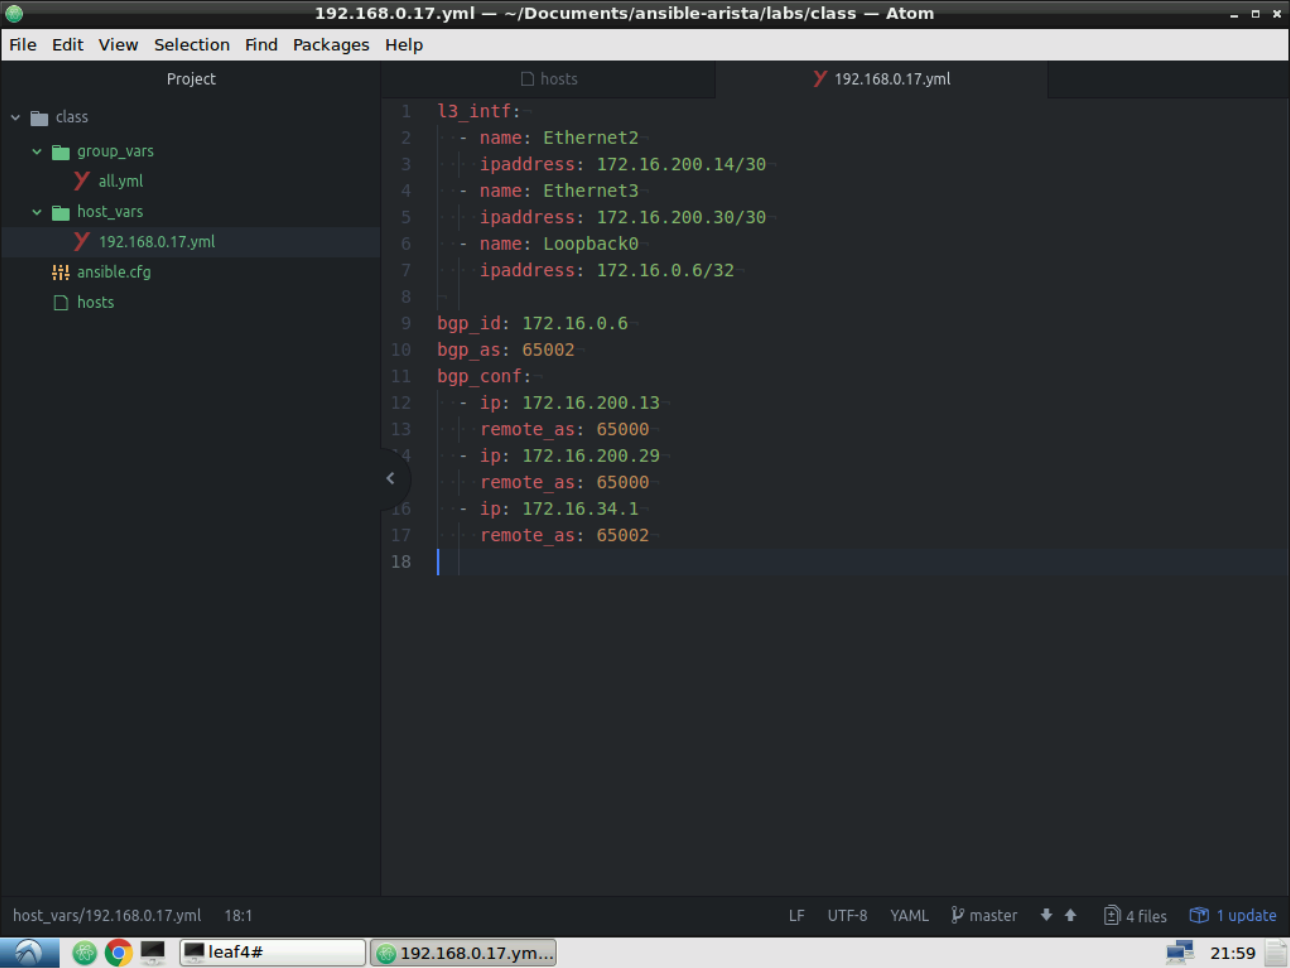
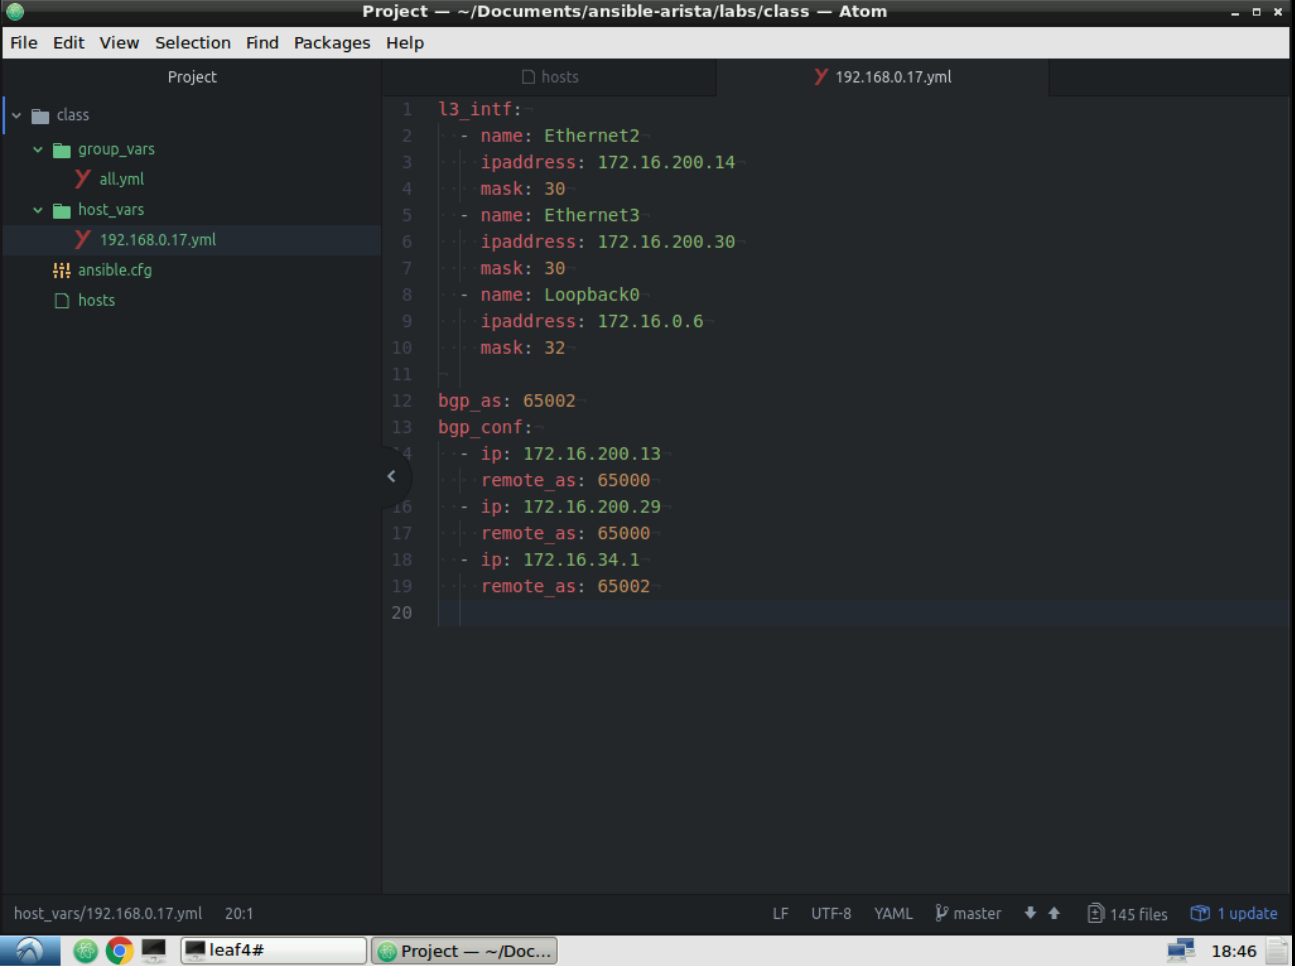
Cleaned up formatting and scripts

diff --git a/labguides/source/eos_l3-2.rst b/labguides/source/eos_l3-2.rst
@@ -5,7 +5,7 @@ Exercise 7 - EOS L3 Interfaces (Continued)
 
 |
 
-2. For this playbook, we will introduce the use of a Jinja2 template.  Jinja2 templates help reduce the amount of configurations that need to be typed ahead of time.  This is acheived by looping through a set of variables for the task.  Let's start by creating a new file with the following information, and save it as **l3-intf.j2**
+2. For this playbook, we will introduce the use of a Jinja2 template.  Jinja2 templates help reduce the amount of configurations that need to be typed ahead of time.  This is acheived by looping through a set of variables for the task.  Let's start by creating a new file with the following information, and save it as ``l3-intf.j2``
 
     .. code-block:: text
 
@@ -14,13 +14,13 @@ Exercise 7 - EOS L3 Interfaces (Continued)
         {% if 'Ethernet' in intf.name %}
            no switchport
         {% endif %}
-           ip address {{ intf.ipaddress }}
+           ip address {{ intf.ipaddress }}/{{ intf.mask }}
         {% endfor %}        
 
 |
 
 
-3. Create a new file with the following information, and save it as **add-l3-2.yml**
+3. Create a new file with the following information, and save it as ``add-l3-2.yml``
 
     .. code-block:: yaml
 
@@ -36,7 +36,7 @@ Exercise 7 - EOS L3 Interfaces (Continued)
 
 |
 
-4. Before we run this playbook, in **Terminal** let's login to a switch to see the current IP addreses configured on leaf4. username: arista / password: arista
+4. Before we run this playbook, in **Terminal** let's login to a switch to see the current IP addreses configured on leaf4. username: ``arista`` password: ``arista``
 
     .. code-block:: text
 
@@ -70,4 +70,4 @@ Now all interfaces show up with the correct IP Address!
 
 |
 
-Section Complete!
+**Section Complete!**

diff --git a/labguides/source/eos_bgp.rst b/labguides/source/eos_bgp.rst
@@ -5,12 +5,17 @@ Exercise 8 - EOS BGP Configuration
 
 |
 
-2. First we will need to create a new Jinja2 template.  Add the following ad save it as **bgp.j2**
+2. First we will need to create a new Jinja2 template.  Add the following ad save it as ``bgp.j2``
 
     .. code-block:: text
 
         router bgp {{ bgp_as }}
-           router-id {{ bgp_id }}
+        {% for intf in l3_intf %}
+        {% if intf.name == 'Loopback0' %}
+           router-id {{ intf.ipaddress }}
+           network {{ intf.ipaddress }}/{{ intf.mask }}
+        {% endif %}
+        {% endfor %}
            maximum-paths 4 ecmp 4
         {% for neighbor in bgp_conf %}
            neighbor {{ neighbor.ip }} remote-as {{ neighbor.remote_as }}
@@ -20,10 +25,9 @@ Exercise 8 - EOS BGP Configuration
            neighbor {{ neighbor.ip }} maximum-routes 12000
         {% endif %}
         {% endfor %}
-           network {{ bgp_id }}/32
            network 172.16.116.0/24
 
-2. Create a new file with the following information, and save it as **add-bgp.yml**
+2. Create a new file with the following information, and save it as ``add-bgp.yml``
 
     .. code-block:: yaml
 
@@ -39,7 +43,7 @@ Exercise 8 - EOS BGP Configuration
 
 |
 
-3. Before we run this playbook, in **Terminal** let's login to see the BGP state configured on leaf4. username: arista / password: arista
+3. Before we run this playbook, in **Terminal** let's login to see the BGP state configured on leaf4. username: ``arista`` password: ``arista``
 
     .. code-block:: text
 
@@ -75,4 +79,4 @@ Exercise 8 - EOS BGP Configuration
 
 
 
-Section Complete!
+**Section Complete!**

diff --git a/labguides/source/setup_ansible.rst b/labguides/source/setup_ansible.rst
@@ -34,6 +34,7 @@ Exercise 1 - Ansible Setup
 
         # Turn off generation of .retry files:
         retry_files_enabled = False
+    
 
 |
 
@@ -57,28 +58,28 @@ Exercise 1 - Ansible Setup
 
 |
 
-<<<<<<< HEAD
-6. Create a *New File* with the following host specific variables for leaf4.  Save the file as **host_vars/192.168.0.17.yml**
-=======
-6. Create a *New File* withe the following host specific variables for leaf4.  Save the file as ``host_vars/192.168.0.17.yml``
->>>>>>> Updating formatting
+6. Create a *New File* with the following host specific variables for leaf4.  Save the file as ``host_vars/192.168.0.17.yml``
 
     .. code-block:: yaml
 
         l3_intf:
           - name: Ethernet2
-            ipaddress: 172.16.200.14/30
+            ipaddress: 172.16.200.14
+            mask: 30
           - name: Ethernet3
-            ipaddress: 172.16.200.30/30
+            ipaddress: 172.16.200.30
+            mask: 30
           - name: Loopback0
-            ipaddress: 172.16.0.6/32
+            ipaddress: 172.16.0.6
+            mask: 32
 
+        bgp_as: 65002
         bgp_conf:
-          - neighbor: 172.16.200.13
+          - ip: 172.16.200.13
             remote_as: 65000
-          - neighbor: 172.16.200.29
+          - ip: 172.16.200.29
             remote_as: 65000
-          - neighbor: 172.16.34.1
+          - ip: 172.16.34.1
             remote_as: 65002
 
 |
@@ -113,4 +114,4 @@ Exercise 1 - Ansible Setup
 
 |
 
-Section Complete! 
+**Section Complete!**

diff --git a/labguides/source/eos_vlans.rst b/labguides/source/eos_vlans.rst
@@ -5,7 +5,7 @@ Exercise 4 - EOS VLANs
 
 |
 
-2. Create a new file with the following information, and save it as **add-vlan.yml**
+2. Create a new file with the following information, and save it as ``add-vlan.yml``
 
     .. code-block:: yaml
 
@@ -22,11 +22,11 @@ Exercise 4 - EOS VLANs
               eos_vlan:
                 aggregate: "{{ eos_vlans }}"
 
-    This playbook calls the **eos_vlan** module twice.  The first task creates a single defined VLAN.  The second task creates a set of VLANs defined in **group_vars/all.yml**
+    This playbook calls the **eos_vlan** module twice.  The first task creates a single defined VLAN.  The second task creates a set of VLANs defined in ``group_vars/all.yml``
 
 |
 
-3. Before we run this playbook, in **Terminal** let's login to a switch to see the current state of VLANs. username: arista / password: arista
+3. Before we run this playbook, in **Terminal** let's login to a switch to see the current state of VLANs. username: ``arista`` password: ``arista``
 
     .. code-block:: text
 
@@ -58,4 +58,4 @@ Exercise 4 - EOS VLANs
 
 |
 
-Section Complete!
+**Section Complete!**

diff --git a/labguides/source/eos_facts.rst b/labguides/source/eos_facts.rst
@@ -5,7 +5,7 @@ Exercise 2 - EOS Facts
 
 |
 
-2. Create a new file with the following information, and save it as **get-facts.yml**
+2. Create a new file with the following information, and save it as ``get-facts.yml``
 
     .. code-block:: yaml
 
@@ -18,7 +18,7 @@ Exercise 2 - EOS Facts
        
 |
 
-3. Next go to your **Terminal** window, and make sure you are in the following directory. **~/Documents/ansible-arista/labs/class**
+3. Next go to your **Terminal** window, and make sure you are in the following directory. ``~/Documents/ansible-arista/labs/class``
 
     .. code-block:: text
 
@@ -50,7 +50,7 @@ Now that provided us with more information.
 
 |
 
-6. Create a new file with the following information, and save it as **get-facts2.yml**
+6. Create a new file with the following information, and save it as ``get-facts2.yml``
 
     .. code-block:: yaml
 
@@ -82,4 +82,4 @@ Now that provided us with more information.
 
 |
 
-Section Complete!
+**Section Complete!**

diff --git a/labguides/source/eos_l3.rst b/labguides/source/eos_l3.rst
@@ -5,7 +5,7 @@ Exercise 6 - EOS L3 Interfaces
 
 |
 
-2. Create a new file with the following information, and save it as **add-l3.yml**
+2. Create a new file with the following information, and save it as ``add-l3.yml``
 
     .. code-block:: yaml
 
@@ -21,7 +21,7 @@ Exercise 6 - EOS L3 Interfaces
 
 |
 
-3. Before we run this playbook, in **Terminal** let's login to a switch to see the current IP addreses configured on leaf4. username: arista / password: arista
+3. Before we run this playbook, in **Terminal** let's login to a switch to see the current IP addreses configured on leaf4. username: ``arista`` password: ``arista``
 
     .. code-block:: text
 
@@ -59,4 +59,4 @@ Wait! The playbook configured the Loopback0 IP, but doesn't appear to have confi
 We will go over in the next exercise how to overcome this limitation in the module.
 
 
-Section Complete!
+**Section Complete!**

diff --git a/labguides/source/eos_commands.rst b/labguides/source/eos_commands.rst
@@ -5,7 +5,7 @@ Exercise 3 - EOS Commands
 
 |
 
-2. Create a new file with the following information, and save it as **show-lldp.yml**
+2. Create a new file with the following information, and save it as ``show-lldp.yml``
 
     .. code-block:: yaml
 
@@ -39,7 +39,7 @@ Exercise 3 - EOS Commands
 
 |
 
-4. Let's duplicate **show-lldp.yml** as a new file **show-lldp-2.yml**.  We will modify the **eos_command** section for this playbook to specify that we would like to get json data in return.
+4. Let's duplicate ``show-lldp.yml`` as a new file ``show-lldp-2.yml``.  We will modify the **eos_command** section for this playbook to specify that we would like to get json data in return.
 
     .. code-block:: yaml
 
@@ -74,4 +74,4 @@ The output is now in a familiar json data format.
 
 
 
-Section Complete!
+**Section Complete!**

diff --git a/labguides/source/eos_banner.rst b/labguides/source/eos_banner.rst
@@ -5,7 +5,7 @@ Exercise 5 - EOS Banner
 
 |
 
-2. Create a new file with the following information, and save it as **add-banner.yml**
+2. Create a new file with the following information, and save it as ``add-banner.yml``
 
     .. code-block:: yaml
 
@@ -28,7 +28,7 @@ Exercise 5 - EOS Banner
 
 |
 
-3. Before we run this playbook, in **Terminal** let's login to a switch to see the current state of the login banner. username: arista / password: arista
+3. Before we run this playbook, in **Terminal** let's login to a switch to see the current state of the login banner. username: ``arista`` password: ``arista``
 
     .. code-block:: text
 
@@ -58,4 +58,4 @@ Exercise 5 - EOS Banner
 
 |
 
-Section Complete!
+**Section Complete!**

diff --git a/labguides/source/index.rst b/labguides/source/index.rst
@@ -1,5 +1,5 @@
 Welcome to the Arista Ansible documentation!
-=============================================
+============================================
 
 .. toctree::
    :maxdepth: 1

diff --git a/labguides/source/programmability_connecting.rst b/labguides/source/programmability_connecting.rst
@@ -53,3 +53,5 @@ work out of **devbox**.
 
 .. image:: images/programmability_connecting_5.png
    :align: center
+
+**Section Complete!**
